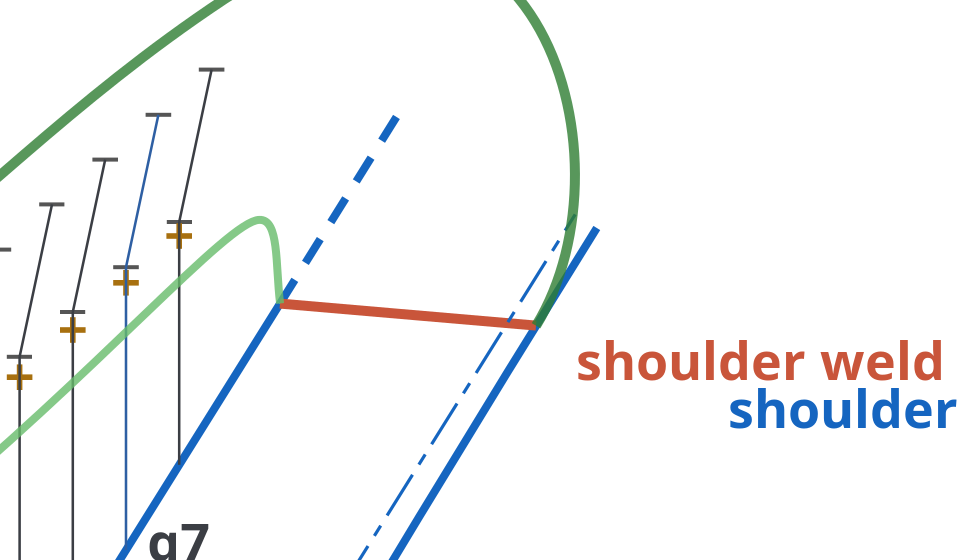
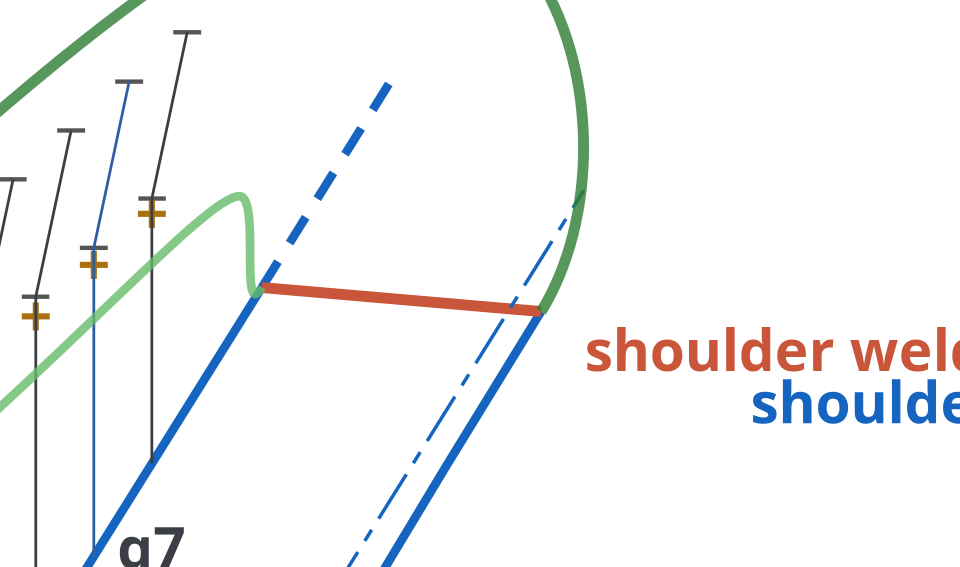
Erand49 shoulder rework per JC's markup: tangent inner join, shared outer point
Light-green rail's final handle rotated onto the channel-top direction
(c2 placed on the line, E - k*u), so the plate edge lands tangent to the
dashed lap line instead of hooking in at an angle. Tapered side-wall
lower edge now terminates exactly at the tuner-rail endpoint (bisection
on the projected x, final vertex snapped to the junction): green, red
weld, and blue wall share one point at the outer shoulder; the wall no
longer runs past the plate. Verified on a rendered crop.

Claude-Session: https://claude.ai/code/session_012jVWLqFRNWgavrkoqrZokD

diff --git a/Erand49/LAYOUT.html b/Erand49/LAYOUT.html
@@ -16,7 +16,7 @@ surface — connection, docking, and travel live in the PM's <code>../LAYOUT.htm
 the instrument itself: string band, sensors, and frame.</p>
 
 <h2>Figure 1 — harp side-view profile (ISO 128/129): strings on the frame</h2>
-<p style="font-size:11px;color:#999;margin:2px 0 6px">generated 2026-09-01 14:45:35 — if this stamp is old, the browser is showing a cached/old copy</p>
+<p style="font-size:11px;color:#999;margin:2px 0 6px">generated 2026-09-01 14:50:19 — if this stamp is old, the browser is showing a cached/old copy</p>
 <p class="sub">From <code>erard original stringband tutorial.dxf</code>: variable spacing
 (13.325→17.94 mm, ratio 1.025), sloped anchors, in mm — <b>each stroke width is the string's actual
 overall diameter</b>. Colors per harp convention: <span class="leg" style="color:#c0392b">C red</span> ·
@@ -29,7 +29,7 @@ optical X/Y sensor axes, 1.0 in below each nut on the neck rail. Green Beziers (
 <defs><marker id="arr" viewBox="0 0 10 10" refX="9" refY="5" markerWidth="7" markerHeight="7" orient="auto-start-reverse"><path d="M0 0 L10 5 L0 10 z" fill="#3b5a7a"/></marker></defs>
 <line x1="88.9" y1="1848.0" x2="990.0" y2="405.9" stroke="#1565c0" stroke-width="2"/>
 <line x1="990.0" y1="405.9" x2="1020.7" y2="356.7" stroke="#1565c0" stroke-width="2" stroke-dasharray="7 5"><title>channel top hidden behind the neck plates — welded to BOTH plates along this lap (ER-005)</title></line>
-<path d="M 208.7 1848.0 L 231.1 1812.0 L 253.6 1776.1 L 276.0 1740.2 L 298.5 1704.2 L 320.9 1668.3 L 343.4 1632.4 L 365.9 1596.4 L 388.3 1560.5 L 410.8 1524.6 L 433.2 1488.6 L 455.7 1452.7 L 478.0 1416.7 L 500.1 1380.5 L 521.9 1344.2 L 543.5 1307.7 L 564.9 1271.1 L 586.2 1234.4 L 607.3 1197.7 L 628.2 1160.8 L 649.1 1123.8 L 669.8 1086.8 L 690.5 1049.8 L 711.1 1012.7 L 731.6 975.5 L 752.1 938.4 L 772.6 901.2 L 793.2 864.1 L 813.7 827.0 L 834.3 789.9 L 855.0 752.8 L 875.7 715.8 L 896.5 678.9 L 917.5 642.0 L 938.6 605.2 L 959.9 568.5 L 981.3 532.0 L 1002.9 495.5 L 1024.8 459.2 L 1046.9 423.0 L 1069.2 387.0" fill="none" stroke="#1565c0" stroke-width="2"><title>side-wall lower edge — tapered 4 in -> 2.25 in toward the shoulder (two saw cuts; moment falls toward the supports)</title></path>
+<path d="M 208.7 1848.0 L 230.7 1812.7 L 252.8 1777.3 L 274.9 1742.0 L 297.0 1706.7 L 319.0 1671.4 L 341.1 1636.0 L 363.2 1600.7 L 385.3 1565.4 L 407.3 1530.1 L 429.4 1494.7 L 451.5 1459.4 L 473.5 1424.0 L 495.2 1388.5 L 516.7 1352.8 L 538.0 1317.0 L 559.1 1281.1 L 580.1 1245.0 L 600.9 1208.9 L 621.5 1172.7 L 642.0 1136.4 L 662.4 1100.0 L 682.8 1063.6 L 703.0 1027.2 L 723.3 990.7 L 743.4 954.2 L 763.6 917.6 L 783.8 881.1 L 803.9 844.6 L 824.2 808.1 L 844.4 771.7 L 864.8 735.3 L 885.2 698.9 L 905.8 662.6 L 926.4 626.4 L 947.2 590.3 L 968.2 554.3 L 989.3 518.4 L 1010.7 482.6 L 1032.2 446.9 L 1054.0 411.4" fill="none" stroke="#1565c0" stroke-width="2"><title>side-wall lower edge — tapered 4 in -> 2.25 in toward the shoulder (two saw cuts; moment falls toward the supports)</title></path>
 <line x1="990.0" y1="405.9" x2="1054.0" y2="411.4" stroke="#c9553a" stroke-width="2.5"><title>shoulder weld — plate bottom edge to midrib side wall between the two neck/member junctions, both plates (ER-005); position mirrors id=shoulder-weld in Erand49.svg</title></line>
 <text x="1064" y="425" class="nl" fill="#c9553a">shoulder weld</text>
 <text x="1102" y="437" class="nl" fill="#1565c0">shoulder lap: ER-005</text>
@@ -312,7 +312,7 @@ optical X/Y sensor axes, 1.0 in below each nut on the neck rail. Green Beziers (
 <g stroke="#555" stroke-width="1.0"><line x1="212.6" y1="79.4" x2="219.0" y2="79.4"/><line x1="220.6" y1="42.1" x2="227.0" y2="42.1"/></g>
 <text x="215.8" y="1668.8" class="nl" fill="#8d877a" text-anchor="middle">a0*</text>
 <path d="M 138.21996,54.93472 C 182.63611,12.264078 408.32862,-20.833264 472.26137,32.301189 536.19411,85.435641 615.43736,477.80999 746.63448,457.58294 877.8316,437.35589 899.00459,380.96014 976.11185,329.78393 c 77.10725,-51.17620 104.10100,39.06953 77.89897,81.65420" fill="none" stroke="#2e7d32" stroke-width="2.5" opacity="0.8"><title>tuner rail — hand-edited (Erand49.svg) — the neck top curve</title></path>
-<path d="m 140.74593,240.41583 c 46.26637,-33.24776 127.6104,-109.93822 249.2482,-76.92464 121.6378,33.01357 183.85728,382.8277 336.29284,377.19423 129.22755,-4.77578 242.90891,-155.44055 258.53871,-155.71257 5,-0.24 4,11 5.2,20.9" fill="none" stroke="#66bb6a" stroke-width="2.0" opacity="0.8"><title>sensor rail — hand-edited (Erand49.svg) — the neck bottom curve, optical axes</title></path>
+<path d="m 140.74593,240.41583 c 46.26637,-33.24776 127.6104,-109.93822 249.2482,-76.92464 121.6378,33.01357 183.85728,382.8277 336.29284,377.19423 129.22755,-4.77578 242.90891,-155.44055 258.53871,-155.71257 5,-0.24 -0.08,29.36 5.2,20.9" fill="none" stroke="#66bb6a" stroke-width="2.0" opacity="0.8"><title>sensor rail — hand-edited (Erand49.svg) — the neck bottom curve, optical axes</title></path>
 </svg></div>
 
 <h2>Cross sections — diameters at 5×, at each string's real position</h2>

diff --git a/Erand49/gen_erand49.py b/Erand49/gen_erand49.py
@@ -216,9 +216,22 @@ for off in (0, -2*MHW):
         (xc, yc), (xd, yd) = mp(t_lap, 0), mp(xr_m, 0)
         band.append(f'<line x1="{xc:.1f}" y1="{yc:.1f}" x2="{xd:.1f}" y2="{yd:.1f}" stroke="#1565c0" stroke-width="2" stroke-dasharray="7 5"><title>channel top hidden behind the neck plates — welded to BOTH plates along this lap (ER-005)</title></line>')
     else:
-        # tapered lower edge: polyline mp(t, -taper_depth(t))
-        ts = [t0 + k*(xr_m - t0)/40 for k in range(41)]
+        # tapered lower edge: polyline mp(t, -taper_depth(t)), ENDING exactly at
+        # the outer-shoulder junction (the hand-edited tuner rail's endpoint):
+        # green, red and blue share that point; the wall does not run past it
+        _tend = _svg_path_end('2e7d32')
+        t_tun = xr_m
+        if _tend:
+            lo, hi = t0, xr_m
+            for _ in range(60):
+                mid = (lo + hi) / 2
+                if mp(mid, -taper_depth(mid))[0] < _tend[0]: lo = mid
+                else: hi = mid
+            t_tun = (lo + hi) / 2
+        ts = [t0 + k*(t_tun - t0)/40 for k in range(41)]
         pts = [mp(t, -taper_depth(t)) for t in ts]
+        if _tend:
+            pts[-1] = (_tend[0], _tend[1])   # land on the junction, not near it
         d = 'M ' + ' L '.join(f'{x:.1f} {y:.1f}' for x, y in pts)
         band.append(f'<path d="{d}" fill="none" stroke="#1565c0" stroke-width="2"><title>side-wall lower edge — tapered 4 in -> 2.25 in toward the shoulder (two saw cuts; moment falls toward the supports)</title></path>')
 # horizontal shoulder weld: plate bottom tab to midrib side wall, both plates.
